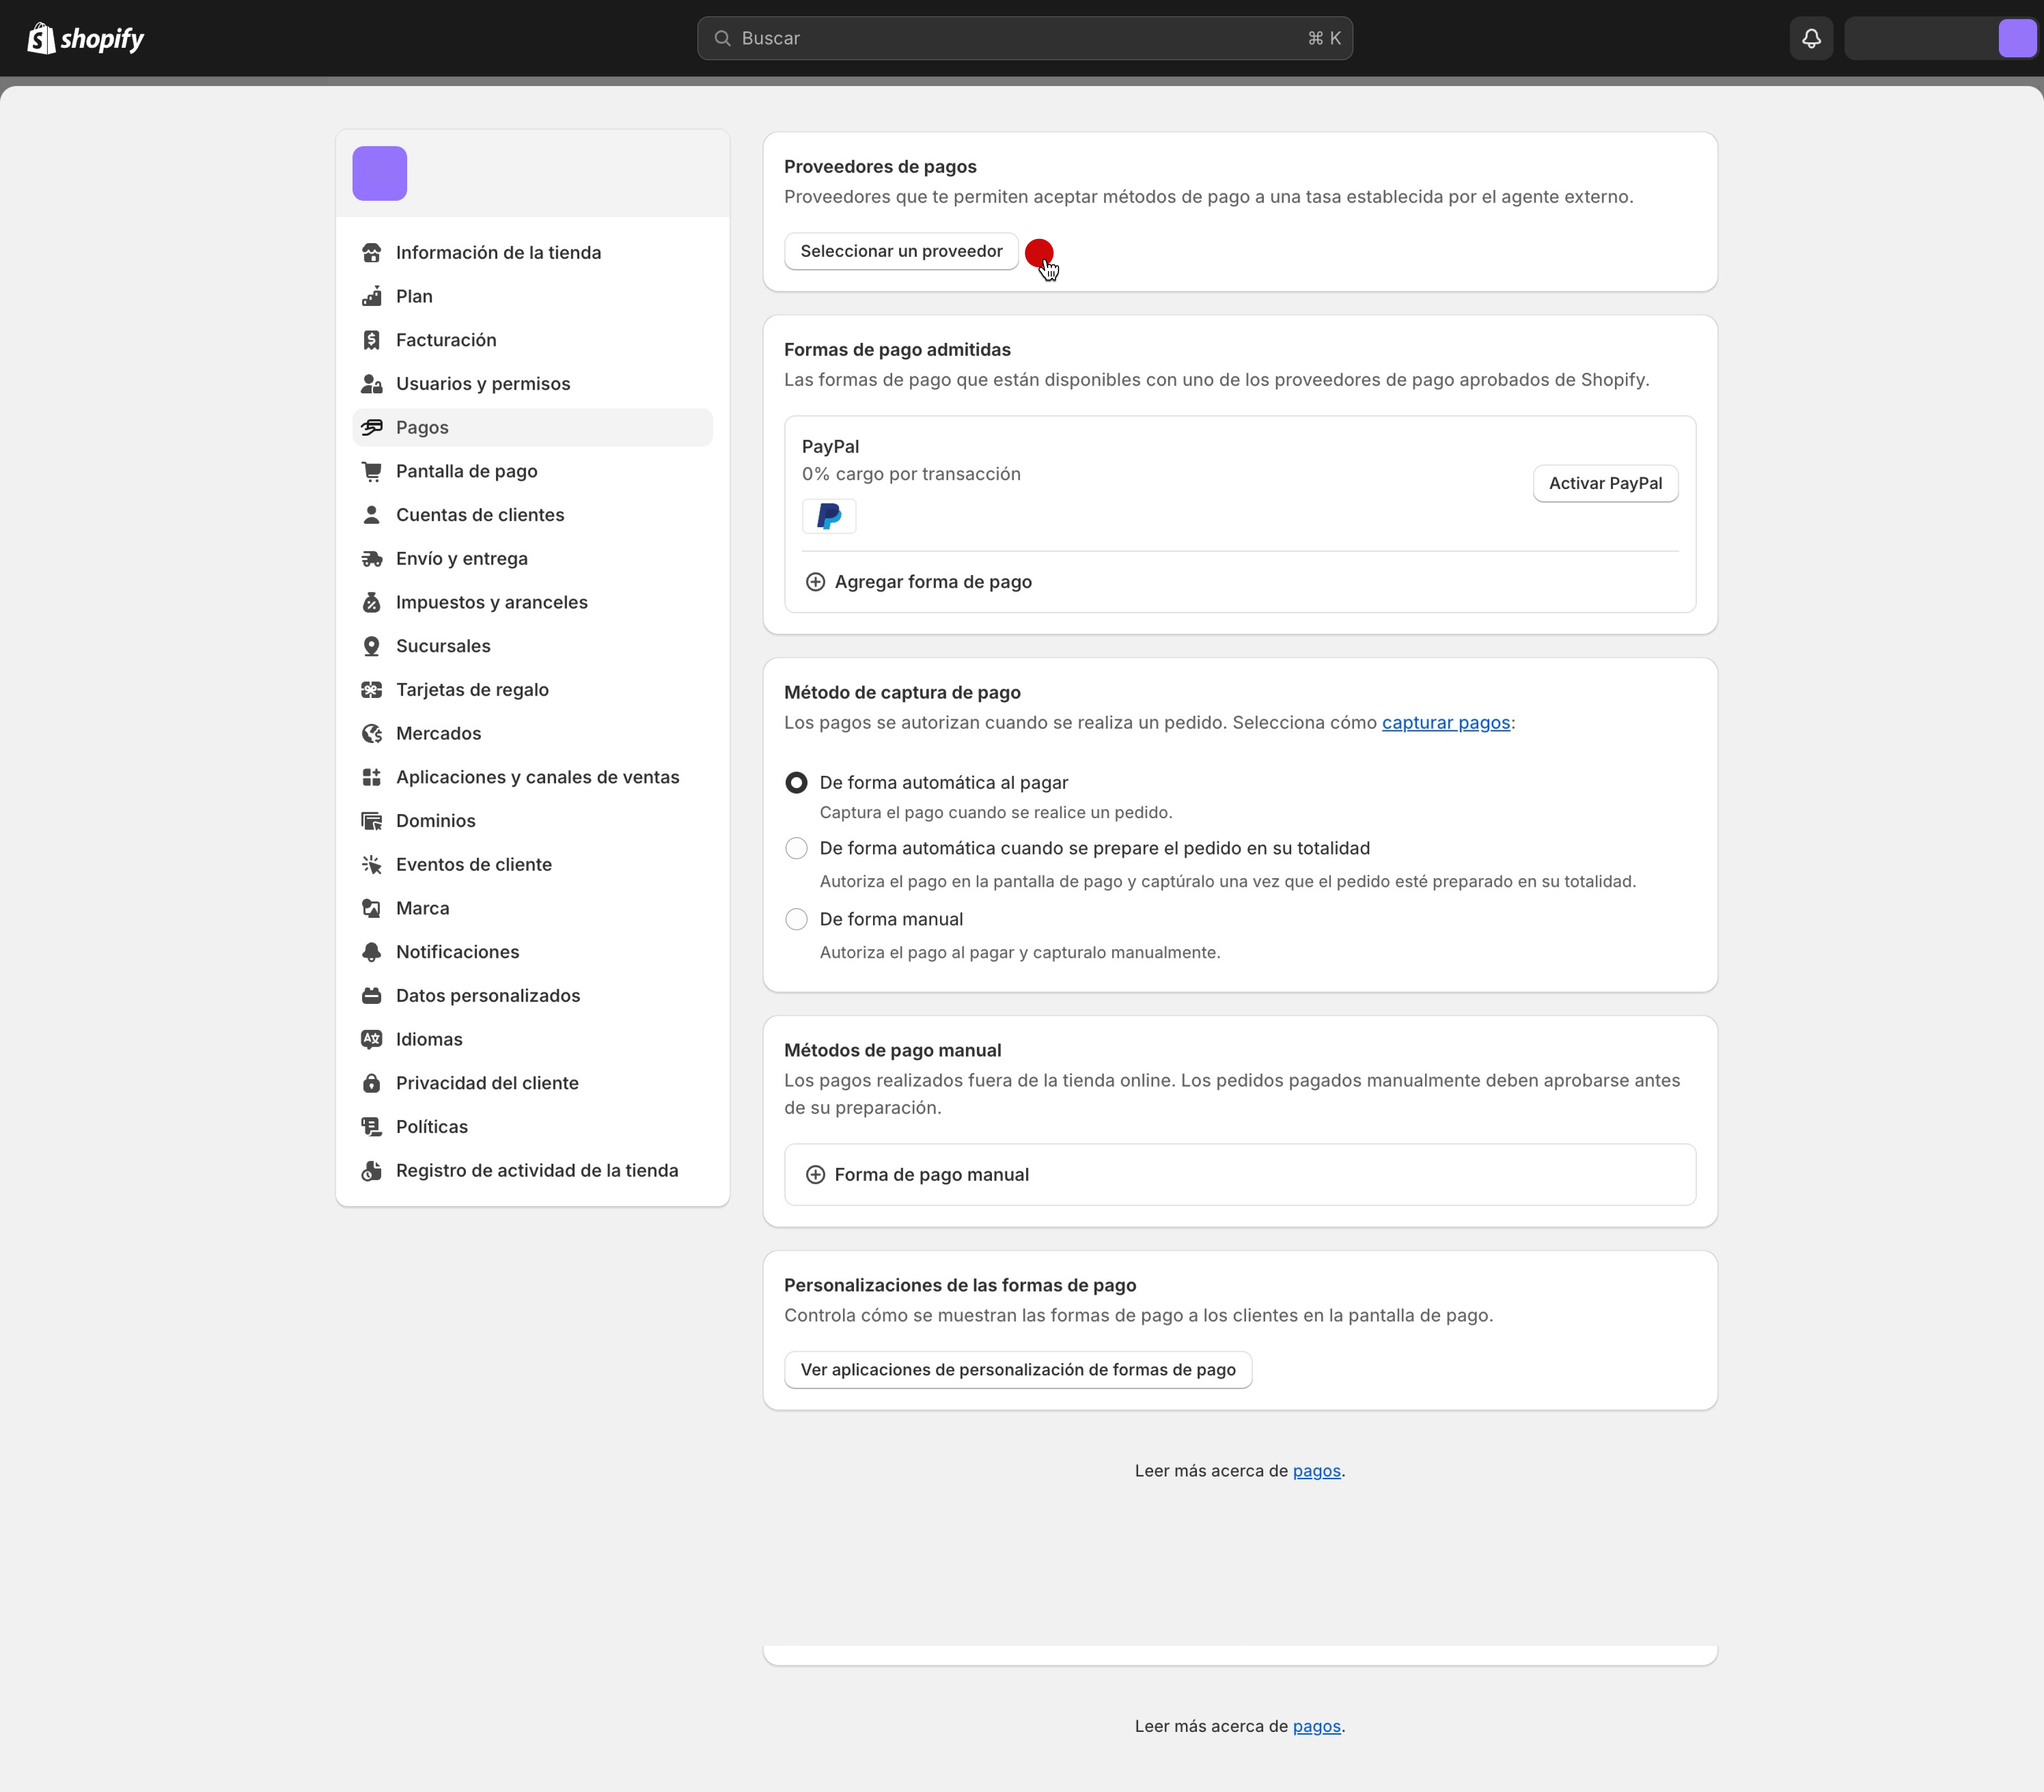
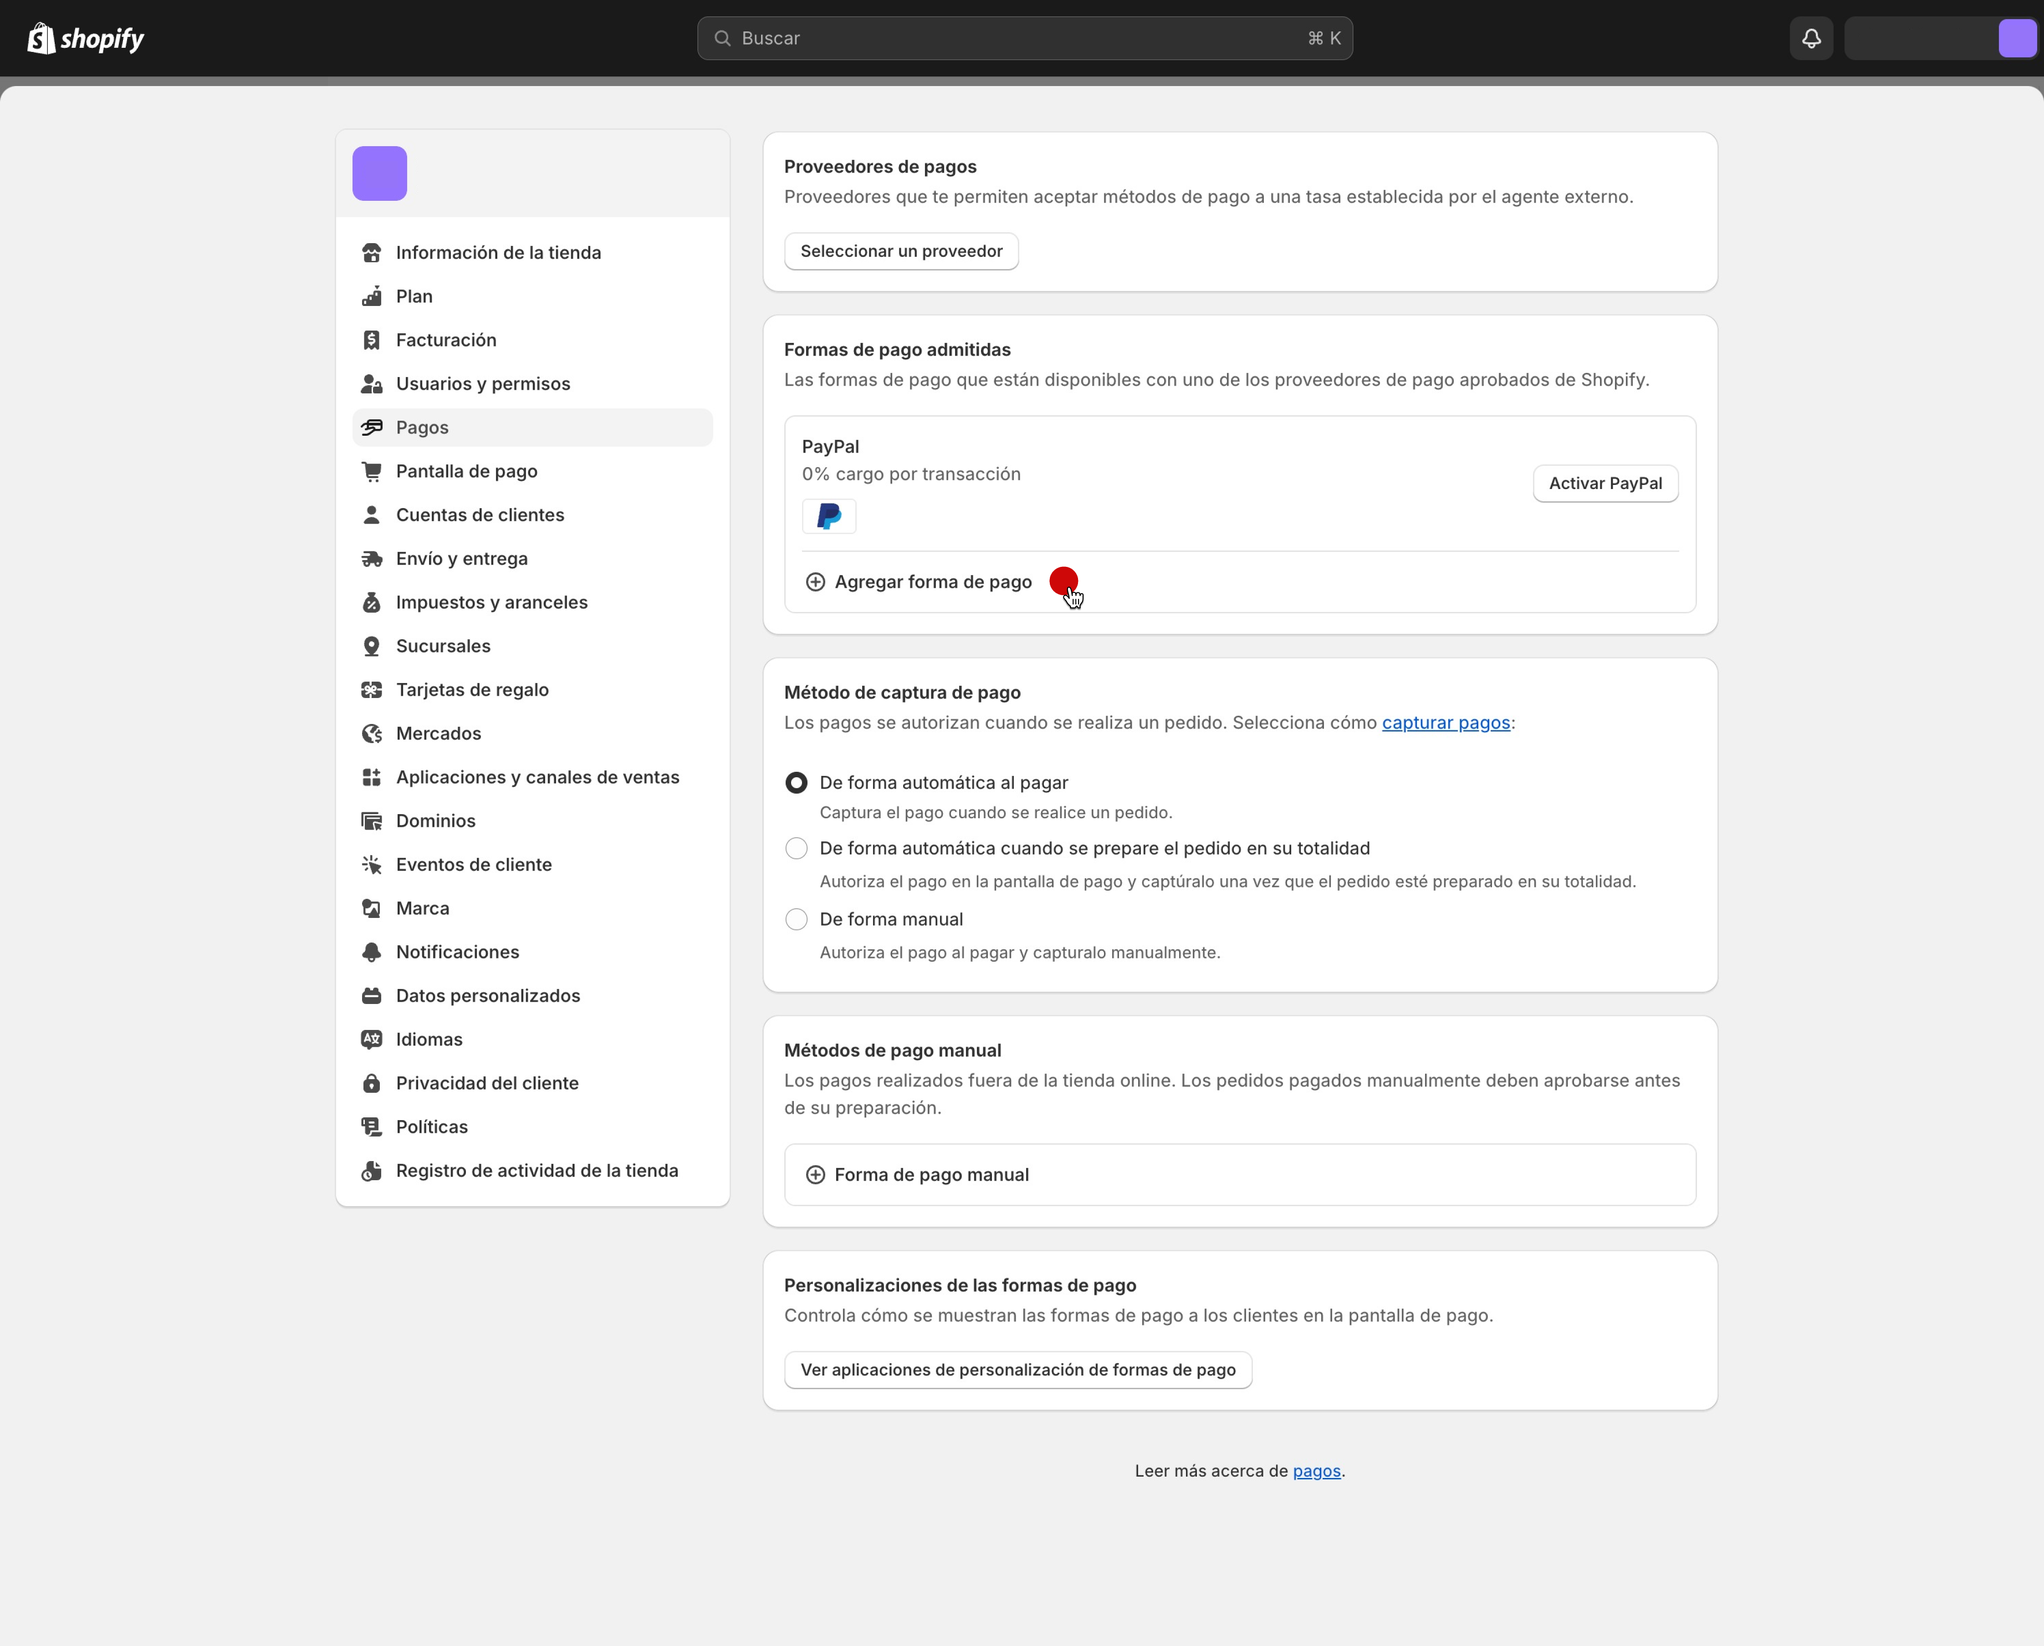
final2000

diff --git a/guides/shopify/how-tos-migrate-cho-api.pt.md b/guides/shopify/how-tos-migrate-cho-api.pt.md
@@ -25,12 +25,12 @@ Para instalar o checkout **Mercado Pago Cartões** em uma loja Shopify, oferecem
 
 1. Vá para a sua loja [Shopify](https://accounts.shopify.com/store-login).
 2. No painel administrativo da loja, clique em **Configurações** no canto inferior esquerdo da página.
-3. Uma vez lá, selecione a opção **Pagamentos** no menu ao lado esquerdo da página. 
-4. Em "Provedores de pagamento", clique em **Escolher um provedor**.
+3. Uma vez lá, selecione a opção **Pagamentos** no menu ao lado esquerdo da página.
+4. Em "Formas de pagamento aceitas", clique em **Adicionar forma de pagamento**.
 
 ![installation panel 1](/images/shopify/installation-cards-panel-1-pt.png)
 
-5. Na tela de "Provedores externos de pagamento", selecione a aba **Buscar por provedor** e procure pelo app "Mercado Pago Cartões".
+5. Na tela de "Provedores externos de pagamento", procure pelo app "Mercado Pago Cartões".
 
 ![installation panel 2](/images/shopify/installation-cards-panel-2-pt.png)
 

diff --git a/guides/shopify/how-tos-migrate-cho-api.en.md b/guides/shopify/how-tos-migrate-cho-api.en.md
@@ -26,8 +26,8 @@ To install the **Mercado Pago Cards** checkout on a Shopify store, we offer two 
 1. Go to your [Shopify](https://accounts.shopify.com/store-login) store.
 2. In the store's administration panel, click on **Settings** in the bottom-left corner of the page.
 3. Once there, select the **Payments** option from the left-hand side menu.
-4. Under "Payment providers" click **Choose a provider**.
-5. On the "External payment providers" screen, select the **Search for a provider** tab and search for the "Mercado Pago Cartões" app.
+4. In "Accepted payment methods," click on **Add payment method**.
+5. On the "External payment providers" screen, serach for the app "Mercado Pago Cards".
 6. Once you've found it, select it and click **Install**. Carefully read the information about the requested permissions and click **Install** again.
 7. After accepting the requested permissions, click **Manage account** to input your credentials and link your Mercado Pago account to the store.
 

diff --git a/guides/shopify/integration-configuration-cho-api.en.md b/guides/shopify/integration-configuration-cho-api.en.md
@@ -24,8 +24,8 @@ To install the **Mercado Pago Cards** checkout on a Shopify store, we offer the 
 1. Go to your [Shopify](https://accounts.shopify.com/store-login) store.
 2. In the store's administration panel, click on **Settings** in the bottom-left corner of the page.
 3. Once there, select the **Payments** option from the left-hand side menu.
-4. Under "Payment providers" click **Choose a provider**.
-5. On the "External payment providers" screen, select the **Search for a provider** tab and search for the "Mercado Pago Cartões" app.
+4. In "Accepted payment methods," click on **Add payment method**.
+5. On the "External payment providers" screen, serach for the app "Mercado Pago Cards".
 6. Once you've found it, select it and click **Install**. Carefully read the information about the requested permissions and click **Install** again.
 7. After accepting the requested permissions, click **Manage account** to input your credentials and link your Mercado Pago account to the store.
 

diff --git a/guides/shopify/how-tos-migrate-cho-api.es.md b/guides/shopify/how-tos-migrate-cho-api.es.md
@@ -30,11 +30,11 @@ Para instalar el checkout **Mercado Pago Tarjetas** en una tienda Shopify, sigue
 1. Ve a tu tienda [Shopify](https://accounts.shopify.com/store-login).
 2. En el panel administrativo, haz clic en **Configuraciones** en la esquina inferior izquierda de la página.
 3. Una vez allí, selecciona la opción **Pagos** en el menú al lado izquierdo de la página.
-4. En "Formas de pago adicionales", haz clic en **Agregar forma de pago**.
+4. En "Formas de pago admitidas", haz clic en **Agregar forma de pago**.
 
 ![installation panel 0](/images/shopify/installation-cards-panel-0-es.png)
 
-5. En la pantalla de "Agregar forma de pago", selecciona la pestaña **Buscar por proveedor** y busca la aplicación "Mercado Pago Tarjetas".
+5. En la pantalla de "Provedoores de pago externos", busca la aplicación "Mercado Pago Tarjetas".
 
 ![installation panel 2](/images/shopify/installation-cards-panel-2-es.png)
 

diff --git a/guides/shopify/integration-configuration-cho-api.es.md b/guides/shopify/integration-configuration-cho-api.es.md
@@ -24,11 +24,11 @@ Para instalar el checkout **Mercado Pago Tarjetas** en una tienda Shopify, ofrec
 1. Ve a tu tienda [Shopify](https://accounts.shopify.com/store-login).
 2. En el panel administrativo, haz clic en **Configuraciones** en la esquina inferior izquierda de la página.
 3. Una vez allí, selecciona la opción **Pagos** en el menú al lado izquierdo de la página.
-4. En "Proveedores de pago", haz clic en **Selecionar un proveedor**.
+4. En "Formas de pago admitidas", haz clic en **Agregar forma de pago**.
 
 ![installation panel 0](/images/shopify/installation-cards-panel-0-es.png)
 
-5. En la pantalla de "Proveedores de pagos externos", busca la aplicación "Mercado Pago Tarjetas".
+5. En la pantalla de "Provedoores de pago externos", busca la aplicación "Mercado Pago Tarjetas".
 
 ![installation panel 2](/images/shopify/installation-cards-panel-2-es.png)
 

diff --git a/guides/shopify/integration-configuration-cho-api.pt.md b/guides/shopify/integration-configuration-cho-api.pt.md
@@ -24,7 +24,7 @@ Para instalar o checkout **Mercado Pago Cartões** em uma loja Shopify, oferecem
 1. Vá para a sua loja [Shopify](https://accounts.shopify.com/store-login).
 2. No painel administrativo da loja, clique em **Configurações** no canto inferior esquerdo da página.
 3. Uma vez lá, selecione a opção **Pagamentos** no menu ao lado esquerdo da página. 
-4. Em "Provedores de pagamento", clique em **Escolher um provedor**.
+4. Em "Formas de pagamento aceitas", clique em **Adicionar forma de pagamento**.
 
 ![installation panel 0](/images/shopify/installation-cards-panel-0-pt.png)
 
